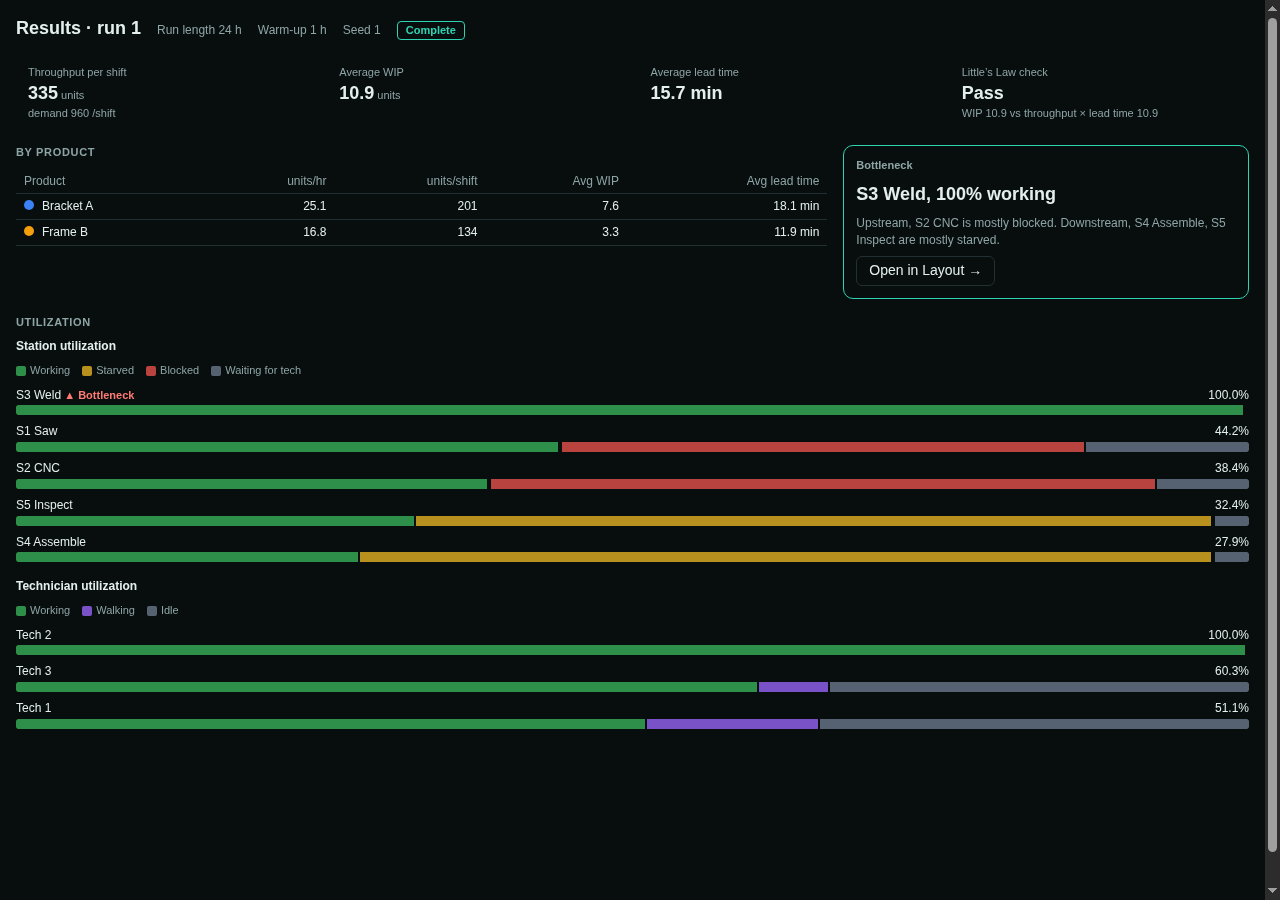
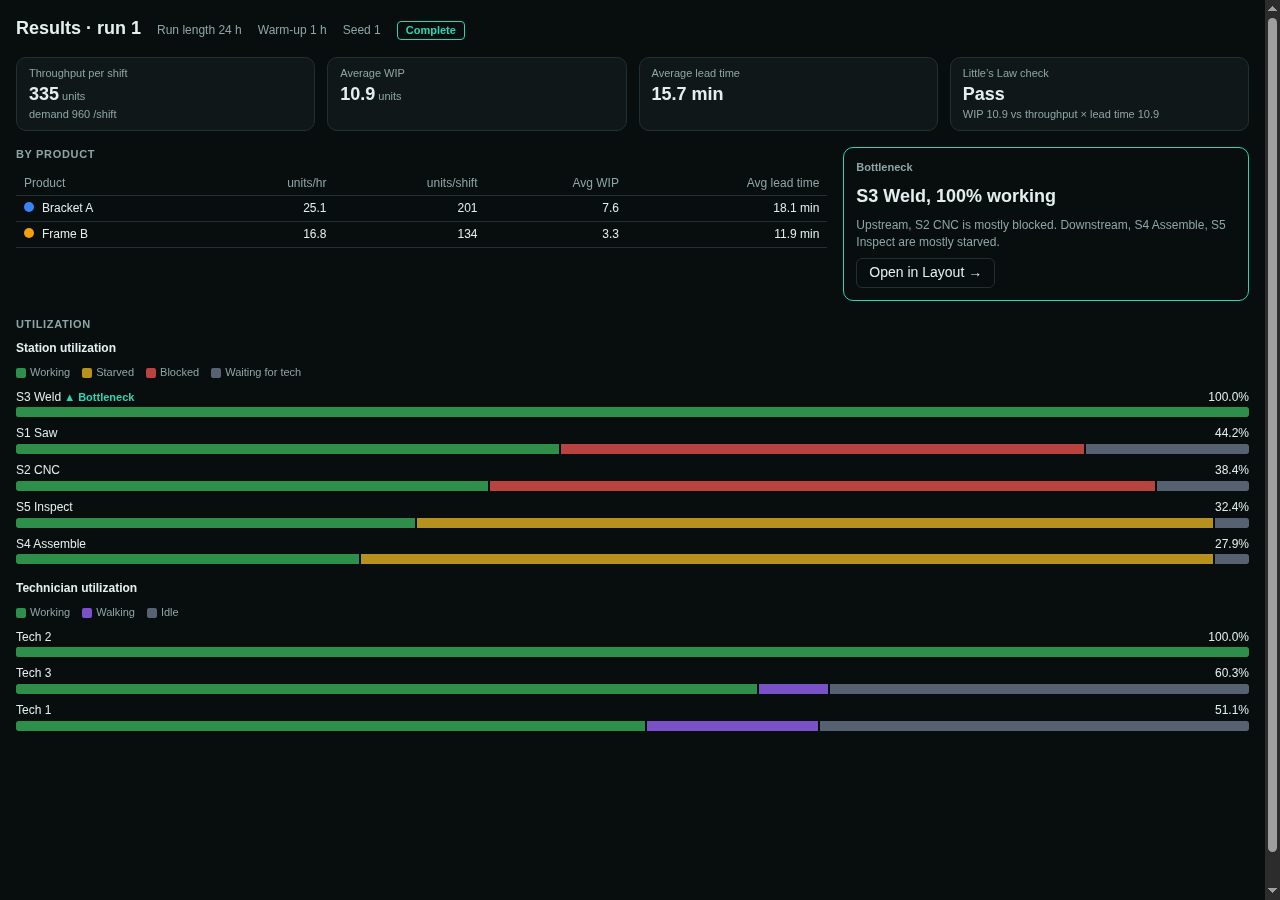
UI-6: address review: reset run session per project, ProjectEditor tests, tile panels, accent bottleneck flag, full bars

diff --git a/apps/web/src/projects/ProjectEditor.results.test.tsx b/apps/web/src/projects/ProjectEditor.results.test.tsx
@@ -1,0 +1,108 @@
+import type { ReactNode } from 'react';
+import { act } from 'react';
+import { afterEach, beforeEach, describe, expect, it, vi } from 'vitest';
+import { cleanup, render, screen } from '@testing-library/react';
+import userEvent from '@testing-library/user-event';
+import { createProject, projectSchema } from '@factory-sim/schema';
+import { api } from '../api/client';
+import { useEditorStore } from '../layout/editorStore';
+import { useSessionStore } from '../simulation/sessionStore';
+import { ProjectEditor } from './ProjectEditor';
+import modelJson from '../../../../docs/reference-model/model.json';
+
+vi.mock('../layout/FloorScene', () => ({
+  FloorScene: ({ children }: { children?: ReactNode }) => <div>{children}</div>,
+}));
+vi.mock('../Editor', () => ({ Editor: () => <div /> }));
+vi.mock('../products/ProductsPanel', () => ({ ProductsPanel: () => <div /> }));
+vi.mock('../simulation/TechLayer', () => ({ TechLayer: () => <div /> }));
+vi.mock('../simulation/PartLayer', () => ({ PartLayer: () => <div /> }));
+vi.mock('../simulation/StationLayer', () => ({ StationLayer: () => <div /> }));
+
+const document = projectSchema.parse(modelJson);
+const mockProject = (id: string, doc = document) =>
+  vi.spyOn(api, 'getProject').mockResolvedValue({
+    id,
+    name: 'Line',
+    updatedAt: '2026-01-01T00:00:00.000Z',
+    revision: 1,
+    document: doc,
+  });
+
+beforeEach(() => {
+  location.hash = '';
+  useSessionStore.setState({ count: 0, current: null });
+  useEditorStore.setState(useEditorStore.getInitialState(), true);
+});
+afterEach(() => {
+  cleanup();
+  vi.restoreAllMocks();
+});
+
+const tab = (name: string) => screen.findByRole('tab', { name });
+const selected = (name: string) =>
+  screen.getByRole('tab', { name }).getAttribute('aria-selected') === 'true';
+const number = () => useSessionStore.getState().current?.number;
+
+/** Finishes the current run so the figures (and the bottleneck) exist. */
+function finishRun() {
+  const r = useSessionStore.getState().current!.result;
+  if (!r.ok) throw new Error('should run');
+  act(() => {
+    r.session.runToEnd();
+    for (let i = 0; i < 100000 && !r.session.done; i++) r.session.frame(1000);
+  });
+}
+
+describe('UI-6 AC4: Open in Layout', () => {
+  it('switches to Layout with the bottleneck station selected', async () => {
+    mockProject('p1');
+    render(<ProjectEditor id="p1" onClose={() => {}} />);
+    await userEvent.click(await tab('Simulate'));
+    finishRun();
+    await userEvent.click(await tab('Results'));
+    await userEvent.click(screen.getByRole('button', { name: /Open in Layout/ }));
+    expect(selected('Layout')).toBe(true);
+    // S3 Weld is the reference model's constraint (docs/reference-model/README.md).
+    expect([...useEditorStore.getState().selectedIds]).toEqual(['s3']);
+  });
+});
+
+describe('UI-6 AC1: Run simulation and Run again start a new run', () => {
+  it('the top-bar Run simulation bumps the run number and lands on Simulate', async () => {
+    mockProject('p1');
+    render(<ProjectEditor id="p1" onClose={() => {}} />);
+    await userEvent.click(await tab('Simulate'));
+    expect(number()).toBe(1);
+    await userEvent.click(await tab('Layout'));
+    await userEvent.click(screen.getByRole('button', { name: 'Run simulation' }));
+    expect(number()).toBe(2);
+    expect(selected('Simulate')).toBe(true);
+  });
+
+  it('Results → Run again bumps the run number and lands on Simulate', async () => {
+    mockProject('p1');
+    render(<ProjectEditor id="p1" onClose={() => {}} />);
+    await userEvent.click(await tab('Simulate'));
+    await userEvent.click(await tab('Results'));
+    act(() => useEditorStore.getState().setReleaseInterval(45));
+    await userEvent.click(await screen.findByRole('button', { name: /run again/i }));
+    expect(number()).toBe(2);
+    expect(selected('Simulate')).toBe(true);
+  });
+});
+
+describe('UI-6: a run does not follow you into the next project', () => {
+  it('loading a second document leaves Results on the empty state', async () => {
+    mockProject('p1');
+    const first = render(<ProjectEditor id="p1" onClose={() => {}} />);
+    await userEvent.click(await tab('Simulate'));
+    expect(number()).toBe(1);
+    first.unmount();
+    mockProject('p2', createProject());
+    location.hash = '#/p/p2/results';
+    render(<ProjectEditor id="p2" onClose={() => {}} />);
+    expect(await screen.findByText('Run a simulation to see results')).toBeTruthy();
+    expect(useSessionStore.getState().count).toBe(0);
+  });
+});

diff --git a/apps/web/src/results/UtilizationBars.tsx b/apps/web/src/results/UtilizationBars.tsx
@@ -65,15 +65,18 @@ function Group<K extends string>({
               aria-label={`${r.name}: ${segments.map((s) => `${s.label.toLowerCase()} ${pct(r[s.key])}`).join(', ')}`}
               className={styles.bar}
             >
-              {segments.map((s) => (
-                <span
-                  key={s.key}
-                  title={`${s.label} ${pct(r[s.key])}`}
-                  className={styles[s.className]}
-                  // eslint-disable-next-line no-restricted-syntax -- the width is the measured share
-                  style={{ width: `${r[s.key]}%` }}
-                />
-              ))}
+              {segments
+                // Zero-width segments would still add a gap and stop a full bar short of the track.
+                .filter((s) => r[s.key] > 0)
+                .map((s) => (
+                  <span
+                    key={s.key}
+                    title={`${s.label} ${pct(r[s.key])}`}
+                    className={styles[s.className]}
+                    // eslint-disable-next-line no-restricted-syntax -- the width is the measured share
+                    style={{ width: `${r[s.key]}%` }}
+                  />
+                ))}
             </div>
           </li>
         ))}

diff --git a/apps/web/src/projects/ProjectEditor.tsx b/apps/web/src/projects/ProjectEditor.tsx
@@ -104,6 +104,8 @@ export function ProjectEditor({ id, onClose }: { id: string; onClose: () => void
         let revision = p.revision;
         let base: Project = p.document;
         useEditorStore.getState().loadDocument(base);
+        // A run belongs to the project it was made from; don't show it in the next one.
+        useSessionStore.setState({ count: 0, current: null });
         setName(p.name);
         saver = saverRef.current = createAutosaver({
           delayMs: AUTOSAVE_MS,

diff --git a/apps/web/src/results/ResultsScreen.module.css b/apps/web/src/results/ResultsScreen.module.css
@@ -37,6 +37,10 @@
   grid-template-columns: repeat(auto-fit, minmax(190px, 1fr));
   gap: var(--space-3);
 }
+.tiles > div {
+  background: var(--color-surface);
+  border: 1px solid var(--color-border);
+}
 .columns {
   display: grid;
   grid-template-columns: minmax(0, 2fr) minmax(240px, 1fr);

diff --git a/apps/web/src/results/UtilizationBars.module.css b/apps/web/src/results/UtilizationBars.module.css
@@ -28,7 +28,7 @@
   font-variant-numeric: tabular-nums;
 }
 .flag {
-  color: var(--color-danger);
+  color: var(--color-accent);
   font-weight: 600;
   font-size: var(--font-size-xs);
 }
